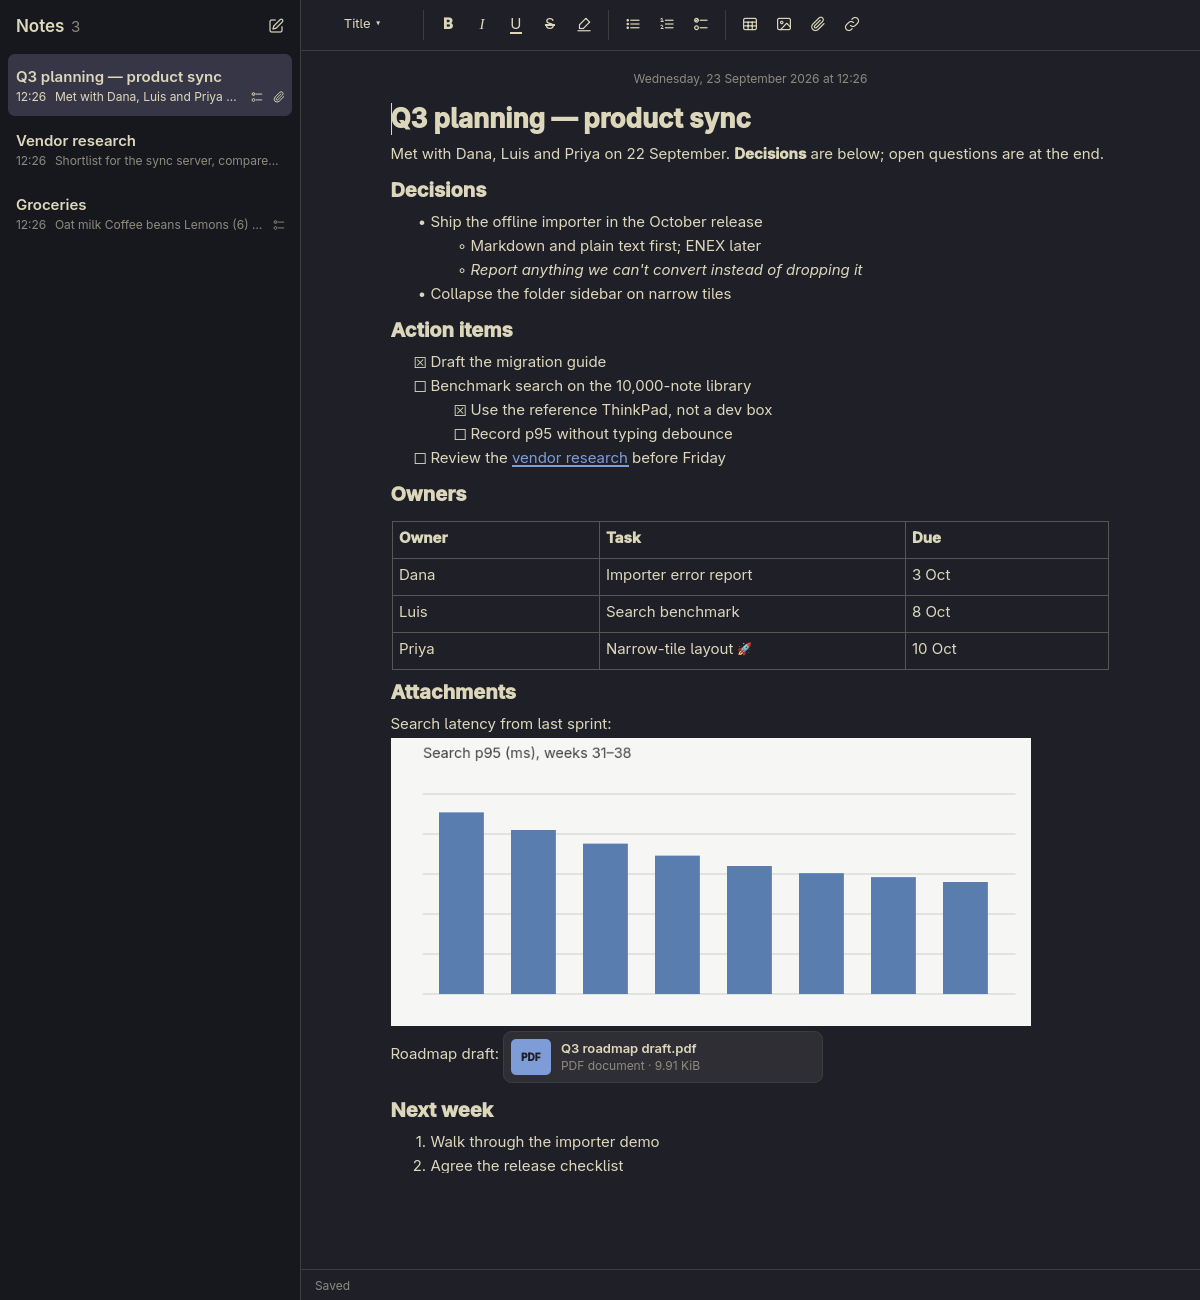
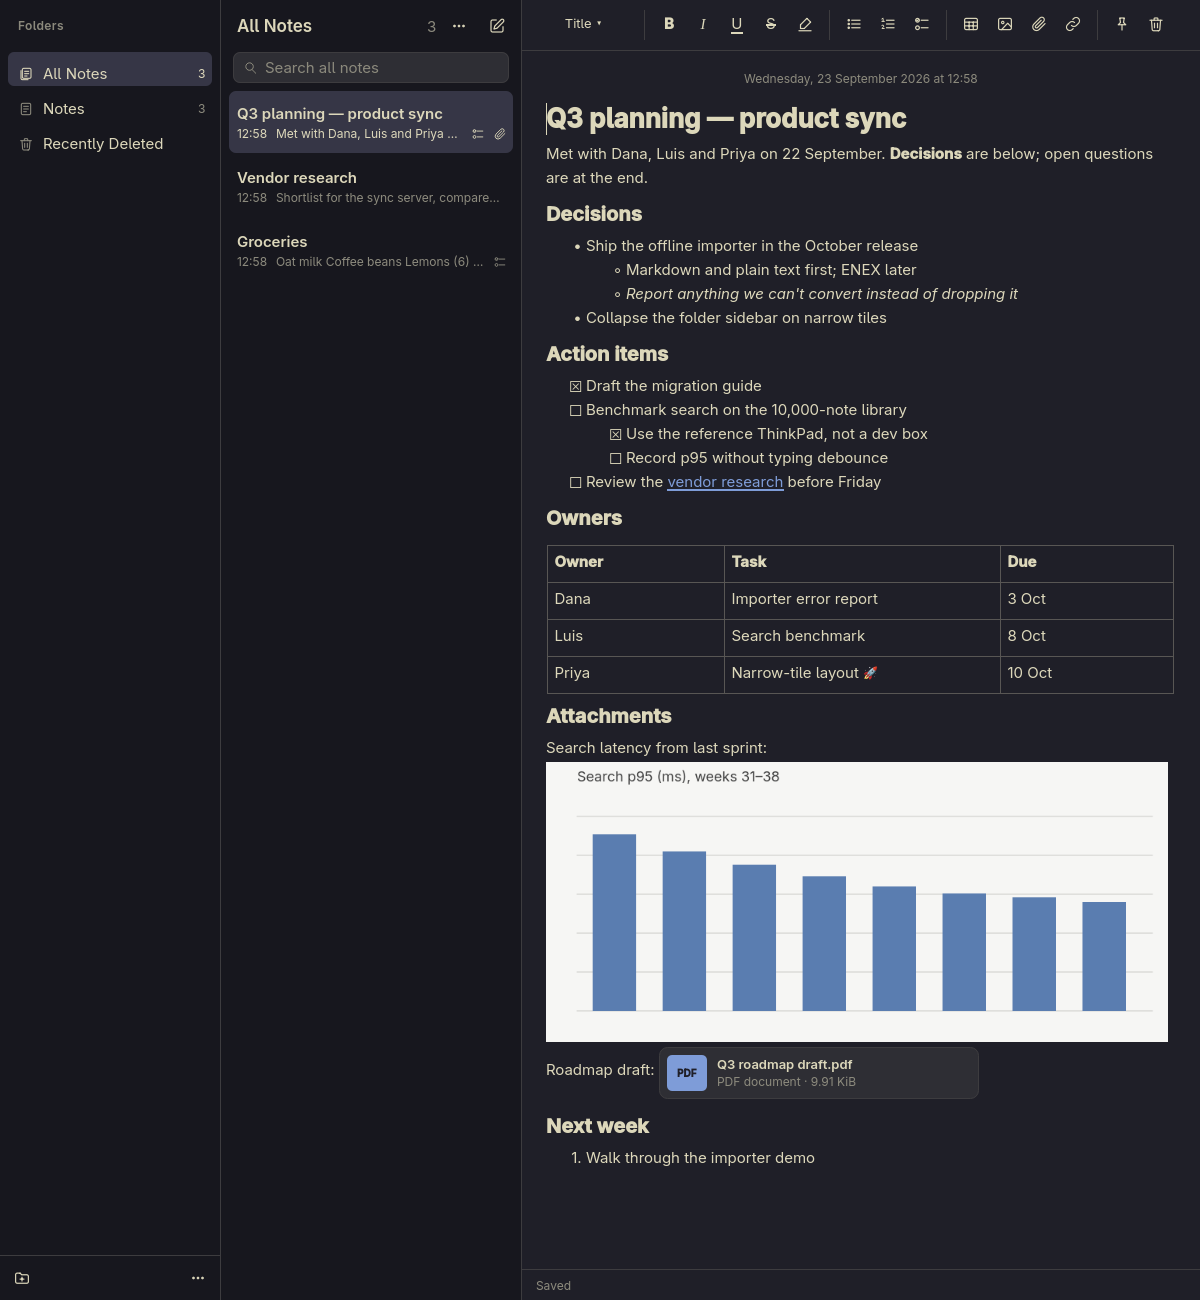
Docs: README and roadmap for the daily-use alpha

diff --git a/llm-docs/roadmap.html b/llm-docs/roadmap.html
@@ -317,10 +317,10 @@
       <span class="label">jasona / omarchy-notes · Roadmap</span>
     </div>
     <h1>Omarchy Notes <span>roadmap</span></h1>
-    <p class="lede">A native, local-first notebook for Omarchy. It aims for Apple Notes' fast capture and rich documents, drawn in your active theme. The editor feasibility gate is passed; the next milestone is a daily-use alpha.</p>
+    <p class="lede">A native, local-first notebook for Omarchy. It aims for Apple Notes' fast capture and rich documents, drawn in your active theme. The daily-use alpha is done: folders, search, trash and backups all work. Next is the complete local beta.</p>
     <div class="facts">
-      <div class="fact"><span class="label">Now</span><strong>Milestone 1 complete</strong><small>Editor gate passed · 23 Sep 2026</small></div>
-      <div class="fact"><span class="label">Next</span><strong>Daily-use alpha</strong><small>Folders, search, trash, backup</small></div>
+      <div class="fact"><span class="label">Now</span><strong>Milestone 2 complete</strong><small>Daily-use alpha · 23 Sep 2026</small></div>
+      <div class="fact"><span class="label">Next</span><strong>Complete local beta</strong><small>Tags, import/export, Quick Note</small></div>
       <div class="fact"><span class="label">v1 estimate</span><strong class="num">12–18 eng-weeks</strong><small>+20–30% contingency</small></div>
       <div class="fact"><span class="label">Stack</span><strong>Qt 6.8+ · QML · SQLite</strong><small>C++20, native Wayland</small></div>
     </div>
@@ -333,7 +333,7 @@
       <p>Milestones are sequential, sized in engineer-weeks for one experienced native-app engineer with design support. These are planning ranges, not calendar dates. Solid bars are the optimistic estimate and hatching runs to the pessimistic one. Re-estimate now that the editor prototype exists.</p>
     </div>
 
-    <div class="timeline" role="img" aria-label="Gantt chart of milestones 0 to 4 on a scale of 0 to 24 engineer-weeks. Scope and design: 1 to 2 weeks, partly done. Editor and storage proof: 2 to 3 weeks, done. Daily-use alpha: 3 to 4 weeks, next. Complete local beta: 4 to 6 weeks. Release quality: 2 to 3 weeks. Total 12 to 18 weeks, with contingency up to about 23 weeks.">
+    <div class="timeline" role="img" aria-label="Gantt chart of milestones 0 to 4 on a scale of 0 to 24 engineer-weeks. Scope and design: 1 to 2 weeks, partly done. Editor and storage proof: 2 to 3 weeks, done. Daily-use alpha: 3 to 4 weeks, done. Complete local beta: 4 to 6 weeks, next. Release quality: 2 to 3 weeks. Total 12 to 18 weeks, with contingency up to about 23 weeks.">
       <div class="gantt">
         <!-- scale: 0–24 weeks; 1 week = 4.1667% -->
         <div class="row is-partial">
@@ -358,8 +358,8 @@
             <div class="bar range" style="left:12.5%;width:8.333%"></div>
           </div>
         </div>
-        <div class="row">
-          <div class="row-label"><b>2 · Daily-use alpha</b><small class="num">3–4 wk · next</small></div>
+        <div class="row is-done">
+          <div class="row-label"><b>2 · Daily-use alpha</b><small class="num">3–4 wk · done</small></div>
           <div class="track">
             <div class="grid" aria-hidden="true">
               <i class="tick-line" style="left:0%"></i><i class="tick-line" style="left:16.667%"></i><i class="tick-line" style="left:33.333%"></i><i class="tick-line" style="left:50%"></i><i class="tick-line" style="left:66.667%"></i><i class="tick-line" style="left:83.333%"></i><i class="tick-line" style="left:100%"></i>
@@ -370,7 +370,7 @@
           </div>
         </div>
         <div class="row">
-          <div class="row-label"><b>3 · Complete local beta</b><small class="num">4–6 wk</small></div>
+          <div class="row-label"><b>3 · Complete local beta</b><small class="num">4–6 wk · next</small></div>
           <div class="track">
             <div class="grid" aria-hidden="true">
               <i class="tick-line" style="left:0%"></i><i class="tick-line" style="left:16.667%"></i><i class="tick-line" style="left:33.333%"></i><i class="tick-line" style="left:50%"></i><i class="tick-line" style="left:66.667%"></i><i class="tick-line" style="left:83.333%"></i><i class="tick-line" style="left:100%"></i>
@@ -453,26 +453,27 @@
         </div>
       </article>
 
-      <article class="ms current">
+      <article class="ms done-card">
         <div class="ms-index" aria-hidden="true">2</div>
         <div class="ms-body">
-          <div class="ms-top"><h3>Daily-use alpha</h3><span class="pill next">Next</span><span class="weeks num">3–4 eng-weeks</span></div>
+          <div class="ms-top"><h3>Daily-use alpha</h3><span class="pill done">Done · 23 Sep</span><span class="weeks num">3–4 eng-weeks</span></div>
           <p class="exit"><b>Exit:</b> capture, edit, save, reopen, folders, pinning, search, trash and backup/restore work end to end.</p>
           <ul class="ticks">
             <li class="y">Capture, edit, autosave, reopen</li>
-            <li>Nested folders, move and duplicate</li>
-            <li>Pinning and sorting in the note list</li>
-            <li>Full-text search (FTS5) with matching snippets</li>
-            <li>Recoverable trash</li>
-            <li>Full-library backup and tested restore</li>
+            <li class="y">Nested folders, move and duplicate</li>
+            <li class="y">Pinning and sorting in the note list</li>
+            <li class="y">Full-text search (FTS5) with matching snippets</li>
+            <li class="y">Recoverable trash with a 30-day purge</li>
+            <li class="y">Full-library backup and verified restore with rollback</li>
+            <li class="y">Three-pane layout; folders become a drawer in narrow tiles</li>
           </ul>
         </div>
       </article>
 
-      <article class="ms">
+      <article class="ms current">
         <div class="ms-index" aria-hidden="true">3</div>
         <div class="ms-body">
-          <div class="ms-top"><h3>Complete local beta</h3><span class="pill planned">Planned</span><span class="weeks num">4–6 eng-weeks</span></div>
+          <div class="ms-top"><h3>Complete local beta</h3><span class="pill next">Next</span><span class="weeks num">4–6 eng-weeks</span></div>
           <p class="exit"><b>Exit:</b> tables, attachments, tags, Smart Folders, gallery, note links, import/export and Quick Note all integrated.</p>
           <ul class="ticks">
             <li>Tags and Smart Folders</li>
@@ -506,17 +507,17 @@
       <h2 id="scope-h">First release vs. later</h2>
       <p>Apple's macOS Notes guide is the feature inventory. The first release is an everyday notebook, not full parity.</p>
     </div>
-    <div class="key"><span class="chip y">Working in the spike</span><span class="chip">Planned for v1</span></div>
+    <div class="key"><span class="chip y">Working today</span><span class="chip">Planned for v1</span></div>
     <div class="table-wrap">
       <table>
         <thead><tr><th scope="col">Capability</th><th scope="col">First public release</th><th scope="col">Later</th></tr></thead>
         <tbody>
           <tr><td>Capture &amp; editing</td><td><div class="chips"><span class="chip y">Instant new note</span><span class="chip y">Autosave</span><span class="chip y">Headings</span><span class="chip y">Bold · italic · underline · strike</span><span class="chip y">Highlight</span><span class="chip y">Lists</span><span class="chip y">Checklists</span><span class="chip y">Undo / redo</span></div></td><td>Collapsible sections</td></tr>
           <tr><td>Structured content</td><td><div class="chips"><span class="chip y">Editable tables</span><span class="chip y">Note links</span><span class="chip y">Pasted links</span><span class="chip y">Inline images</span><span class="chip y">File &amp; PDF attachments</span></div></td><td>Rich link previews, PDF annotation, drawing</td></tr>
-          <tr><td>Organization</td><td><div class="chips"><span class="chip">Nested folders</span><span class="chip">Move / duplicate</span><span class="chip">Pin</span><span class="chip">Sorting</span><span class="chip">Tags</span><span class="chip">Smart Folders</span><span class="chip">Recoverable trash</span></div></td><td>More filters</td></tr>
-          <tr><td>Browsing &amp; retrieval</td><td><div class="chips"><span class="chip y">Note list</span><span class="chip">Gallery</span><span class="chip">Attachment browser</span><span class="chip">Full-text search</span><span class="chip">Matching snippets</span><span class="chip">In-note find</span></div></td><td>OCR, attachment-content search</td></tr>
+          <tr><td>Organization</td><td><div class="chips"><span class="chip y">Nested folders</span><span class="chip y">Move / duplicate</span><span class="chip y">Pin</span><span class="chip y">Sorting</span><span class="chip">Tags</span><span class="chip">Smart Folders</span><span class="chip y">Recoverable trash</span></div></td><td>More filters</td></tr>
+          <tr><td>Browsing &amp; retrieval</td><td><div class="chips"><span class="chip y">Note list</span><span class="chip">Gallery</span><span class="chip">Attachment browser</span><span class="chip y">Full-text search</span><span class="chip y">Matching snippets</span><span class="chip">In-note find</span></div></td><td>OCR, attachment-content search</td></tr>
           <tr><td>Quick capture</td><td><div class="chips"><span class="chip">Quick Note window</span><span class="chip">Desktop launch action</span><span class="chip">CLI capture</span></div></td><td>Browser capture, shell widget</td></tr>
-          <tr><td>Portability</td><td><div class="chips"><span class="chip">Markdown / text import</span><span class="chip">Markdown · HTML · PDF export</span><span class="chip">Backup &amp; restore</span></div></td><td>ENEX and richer importers</td></tr>
+          <tr><td>Portability</td><td><div class="chips"><span class="chip">Markdown / text import</span><span class="chip">Markdown · HTML · PDF export</span><span class="chip y">Backup &amp; restore</span></div></td><td>ENEX and richer importers</td></tr>
           <tr><td>Privacy</td><td><div class="chips"><span class="chip y">Offline</span><span class="chip y">No account</span></div></td><td>Encrypted locked notes</td></tr>
           <tr><td>Media</td><td><div class="chips"><span class="chip y">Open attachments with desktop apps</span></div></td><td>Audio + transcription, math, writing help</td></tr>
           <tr><td>Devices &amp; teams</td><td><div class="chips"><span class="chip y">Local library</span></div></td><td>Sync, then sharing and collaboration</td></tr>
@@ -542,7 +543,7 @@
         </dl>
       </div>
       <div class="panel">
-        <h3>Gaps from the spike</h3>
+        <h3>Known gaps</h3>
         <ul class="gaps">
           <li><span><b>Checklist markers</b> draw as ☐/☒ glyphs; overlay round, themed checkboxes.</span></li>
           <li><span><b>Screen readers</b> see images and attachments as unnamed placeholders.</span></li>
@@ -550,7 +551,7 @@
           <li><span><b>Image decoding</b> runs on the UI thread during note load.</span></li>
           <li><span><b>Very large notes</b> open in ~0.9 s at 3,000 blocks (offscreen); re-measure on real hardware.</span></li>
           <li><span><b>Single instance</b> is a lock file; D-Bus activation is still to come.</span></li>
-          <li><span><b>Unused attachments</b> aren't cleaned up yet; references are recorded so it can be added safely.</span></li>
+          <li><span><b>Drag and drop</b>: notes move between folders by menu for now; dragging notes and folders comes later.</span></li>
           <li><span><b>Manual desktop checks:</b> fcitx5, Orca, fractional scaling, portal file dialogs.</span></li>
         </ul>
       </div>

diff --git a/README.md b/README.md
@@ -10,7 +10,7 @@ Rich notes with checklists, tables, images and attachments. They live on your ma
 ![C++20](https://img.shields.io/badge/C%2B%2B-20-00599c?logo=cplusplus&logoColor=white)
 ![SQLite](https://img.shields.io/badge/SQLite-FTS5-003b57?logo=sqlite&logoColor=white)
 ![Wayland](https://img.shields.io/badge/Wayland-native-ffbc00)
-![Status](https://img.shields.io/badge/status-early%20preview-orange)
+![Status](https://img.shields.io/badge/status-alpha-orange)
 
 <img src="docs/images/screenshot-dark.png" alt="Omarchy Notes showing a meeting note with headings, nested lists, checklists, a table, a chart image and a PDF attachment, in the Kanagawa theme" width="820">
 
@@ -22,8 +22,8 @@ Rich notes with checklists, tables, images and attachments. They live on your ma
 
 The idea is simple: Apple Notes' easy note-taking, on Linux. Open it, start typing, and trust it's saved. It's a real desktop app built with Qt, not a web page in a wrapper. It works offline with no account, and it follows whatever Omarchy theme you're using, even when you switch themes while it's open.
 
-> [!WARNING]
-> **This is an early preview.** Writing and editing work well, and saving is solid. But deleting notes, search and folders don't exist yet. Every note you create stays in your list for now. Check the [roadmap](#-roadmap) for what's coming.
+> [!NOTE]
+> **This is an alpha.** Everyday note-taking works: writing, folders, search, trash and backups. Tags, import/export and a Quick Note window are still to come. Check the [roadmap](#-roadmap) for what's next.
 
 ## ✨ What you can do today
 
@@ -33,6 +33,11 @@ The idea is simple: Apple Notes' easy note-taking, on Linux. Open it, start typi
 - 📊 **Tables.** Tab moves between cells, and Tab in the last cell adds a new row.
 - 🖼 **Images and attachments.** Add images from the toolbar or paste them in, and attach PDFs or any other file. Double-click one to open it in its usual app.
 - 🔗 **Link notes together.** Ctrl+L links to another note, and Ctrl+click follows a link.
+- 🗂 **Folders.** Nest folders as deep as you like, move notes between them, and use All Notes to see everything at once.
+- 🔍 **Search everything.** Results appear as you type, with the matching words in bold. Partial words work too: "bench" finds "benchmark".
+- 📌 **Pin what matters.** Pinned notes stay at the top. Sort the rest by date edited, date created or title.
+- 🗑 **Undo a delete.** Deleted notes wait in Recently Deleted for 30 days before they're gone for good. Deleting a folder moves its notes there too.
+- 💾 **Backups you can trust.** One click saves a complete copy of your library, attachments included. Restoring checks the backup first and keeps your current notes aside, so you can always go back.
 - 📋 **Copy and paste that behaves.** Copying between notes keeps everything intact. Text pasted from the web gets tidied into clean note formatting, and anything that can't come along, like images from other sites, gets a heads-up instead of vanishing silently.
 - 🎨 **Matches your theme.** Colours come from your active Omarchy theme and are adjusted automatically when they'd be hard to read.
 - 🌐 **Every language.** Emoji, right-to-left scripts, CJK and input methods (IME) all work.
@@ -69,7 +74,9 @@ To update later, `git pull` and run the last two `cmake` commands again. Your no
 
 ## 🗂 Where your notes live
 
-Everything is stored in `~/.local/share/omarchy-notes/`: an SQLite database for your notes, plus a folder of attached files. Reinstalling or removing the app never touches it, so to back up, just copy that folder.
+Everything is stored in `~/.local/share/omarchy-notes/`: an SQLite database for your notes, plus a folder of attached files. Reinstalling or removing the app never touches it.
+
+To back up, click **⋯** at the bottom of the folder list and choose **Back Up Library…**. You get a normal folder with a consistent copy of everything, which is safe to make while you're writing. **Restore from Backup…** in the same menu checks a backup before using it and sets your current notes aside next to the library, so nothing is lost if you change your mind.
 
 Want a sandbox to play in? Point the app at a different folder and fill it with sample notes:
 
@@ -94,7 +101,11 @@ omarchy-notes --data-dir /tmp/notes-playground --samples
 
 | | Shortcut |
 |---|---|
-| New note | <kbd>Ctrl</kbd> <kbd>N</kbd> |
+| New note · New folder | <kbd>Ctrl</kbd> <kbd>N</kbd> · <kbd>Ctrl</kbd> <kbd>Shift</kbd> <kbd>N</kbd> |
+| Search all notes | <kbd>Ctrl</kbd> <kbd>Shift</kbd> <kbd>F</kbd> |
+| Delete the selected note | <kbd>Delete</kbd> (in the note list) |
+| Duplicate note | <kbd>Ctrl</kbd> <kbd>D</kbd> |
+| Show or hide folders | <kbd>Ctrl</kbd> <kbd>Shift</kbd> <kbd>S</kbd> |
 | Bold · Italic · Underline | <kbd>Ctrl</kbd> <kbd>B</kbd> · <kbd>Ctrl</kbd> <kbd>I</kbd> · <kbd>Ctrl</kbd> <kbd>U</kbd> |
 | Strikethrough · Highlight · Monospace | <kbd>Ctrl</kbd> <kbd>Shift</kbd> <kbd>X</kbd> · <kbd>Ctrl</kbd> <kbd>Shift</kbd> <kbd>Y</kbd> · <kbd>Ctrl</kbd> <kbd>E</kbd> |
 | Title · Heading · Subheading · Body | <kbd>Ctrl</kbd> <kbd>Shift</kbd> + <kbd>T</kbd> · <kbd>H</kbd> · <kbd>J</kbd> · <kbd>B</kbd> |
@@ -110,8 +121,8 @@ omarchy-notes --data-dir /tmp/notes-playground --samples
 | | Milestone | What it brings |
 |---|---|---|
 | ✅ | **Editor & storage** | Rich editing, autosave, crash-safe storage, theme support |
-| 🔜 | **Daily-use alpha** | Delete & trash, folders, pinning, search, backup & restore |
-| 📅 | **Local beta** | Tags, Smart Folders, gallery view, import/export, Quick Note |
+| ✅ | **Daily-use alpha** | Delete & trash, folders, pinning, search, backup & restore |
+| 🔜 | **Local beta** | Tags, Smart Folders, gallery view, import/export, Quick Note, find in note |
 | 📅 | **1.0** | Arch package, accessibility polish, performance targets met |
 | 💭 | **After 1.0** | Locked notes, OCR, audio, sync between devices, sharing |
 
